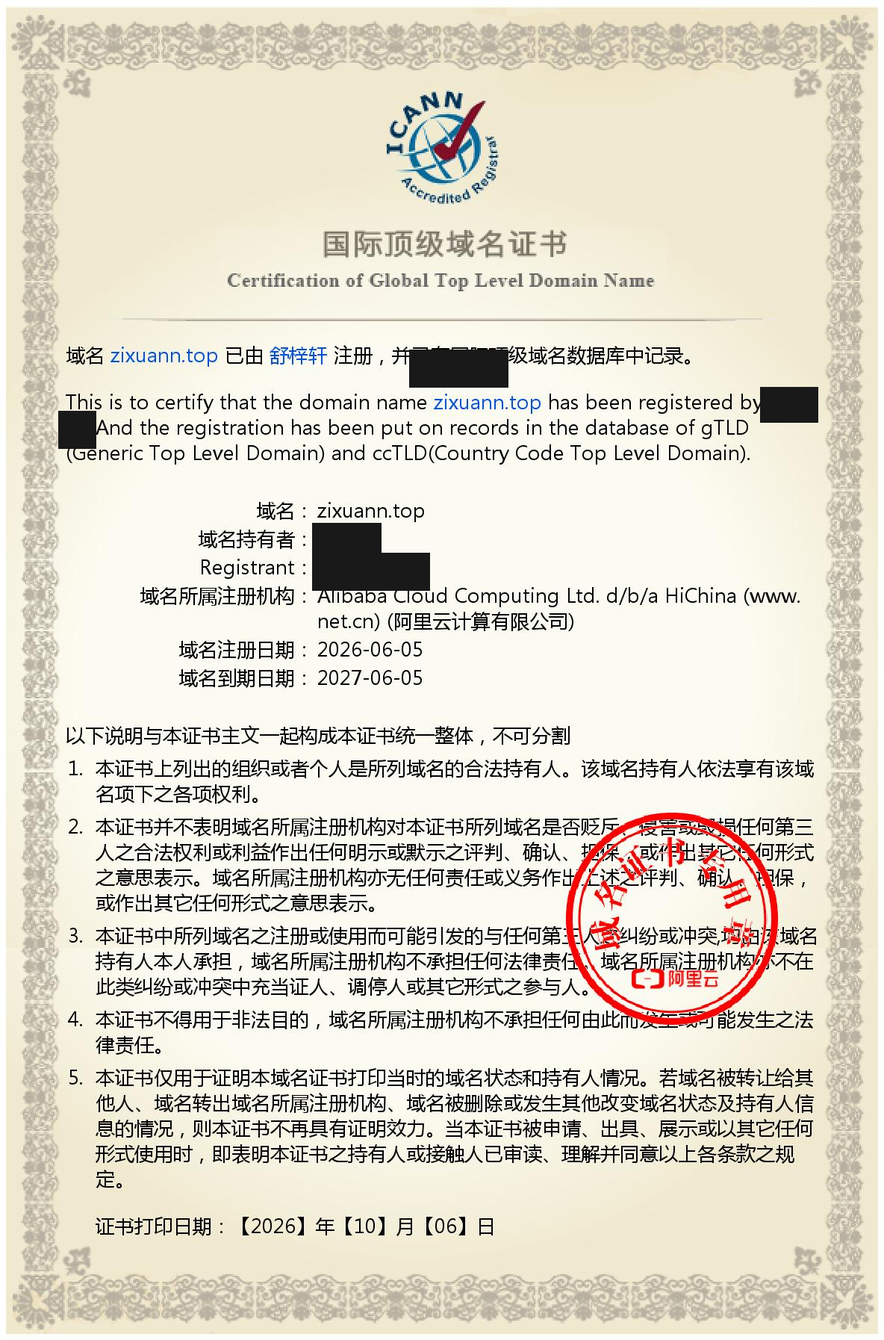
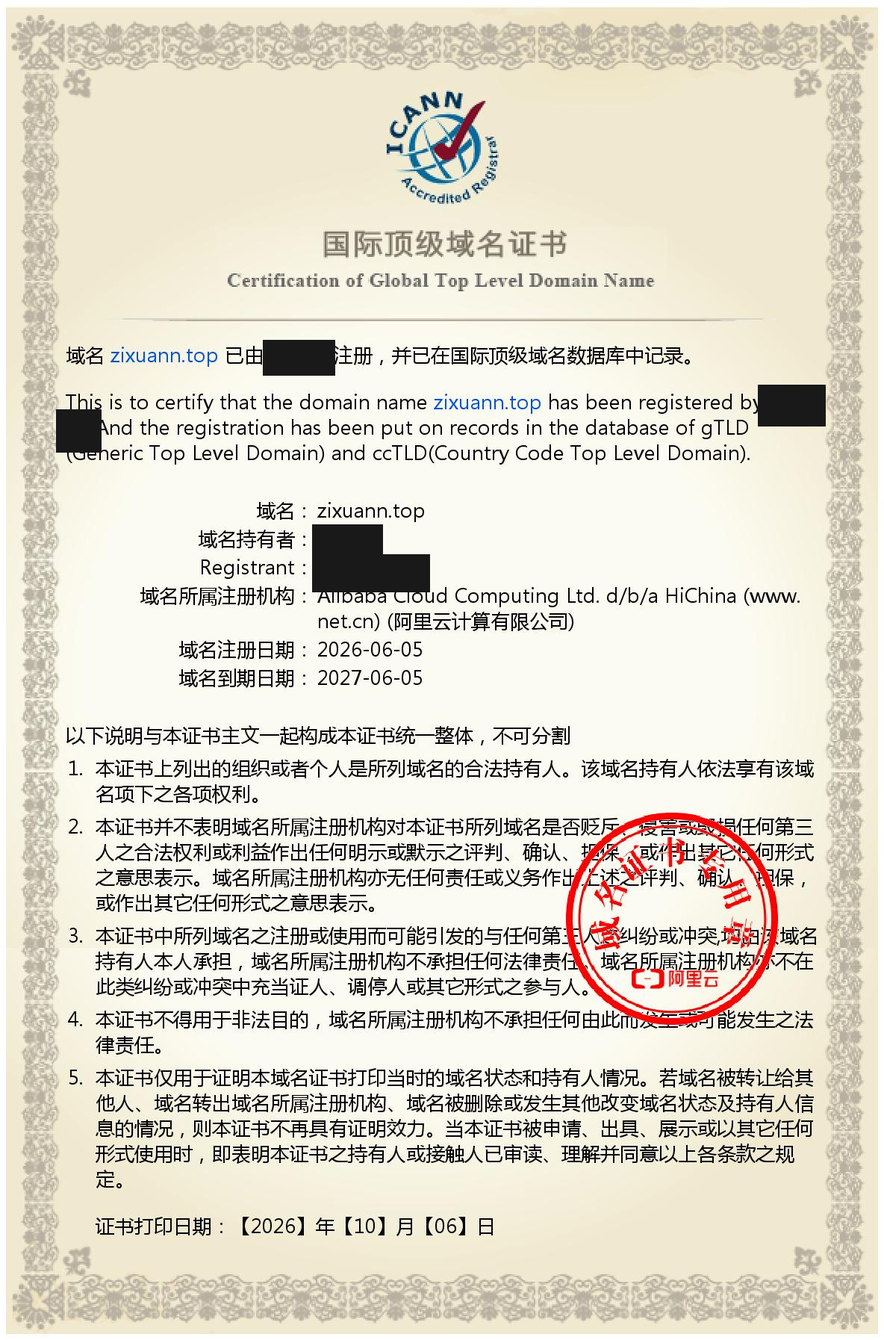
add domain certificate post with redacted image

diff --git a/dist/posts/2026-10-07-domain-cert.html b/dist/posts/2026-10-07-domain-cert.html
@@ -3,15 +3,15 @@
 <head>
 <meta charset="utf-8">
 <meta name="viewport" content="width=device-width, initial-scale=1">
-<title>归舸的大窝 · 归舸</title>
-<meta name="description" content="想开这个站挺久了。以前写的东西散在各处，干脆认真记一下——这里慢慢同步技术、生活，和一些还没想完的想法。">
+<title>这个窝，有证了 · 归舸</title>
+<meta name="description" content="域名证书打印出来了。zixuann.top，从 2026 年 6 月 5 日起，到 2027 年 6 月 5 日。">
 <meta name="author" content="归舸">
-<link rel="canonical" href="https://zixuann.top/归舸的大窝">
-<meta property="og:title" content="归舸的大窝 · 归舸">
-<meta property="og:description" content="想开这个站挺久了。以前写的东西散在各处，干脆认真记一下——这里慢慢同步技术、生活，和一些还没想完的想法。">
+<link rel="canonical" href="https://zixuann.top/这个窝，有证了">
+<meta property="og:title" content="这个窝，有证了 · 归舸">
+<meta property="og:description" content="域名证书打印出来了。zixuann.top，从 2026 年 6 月 5 日起，到 2027 年 6 月 5 日。">
 <meta property="og:type" content="website">
 <meta property="og:url" content="https://zixuann.top/">
-<meta property="og:image" content="../assets/valorant/cover-sage.jpg">
+<meta property="og:image" content="../assets/domain-cert.png">
 <meta name="twitter:card" content="summary_large_image">
 <link rel="alternate" type="application/rss+xml" title="归舸" href="../feed.xml">
 <link rel="icon" href="../assets/avatar.jpg" type="image/jpeg">
@@ -59,30 +59,31 @@
           <span class="badge">思考</span>
           
         </div>
-        <h1>归舸的大窝</h1>
+        <h1>这个窝，有证了</h1>
         <div class="post-meta">
-          <span>2026-10-06</span>
-          <span>18 分钟</span>
-          <span>374 字</span>
-          <span>阅读 <b id="stat-page-pv" data-key="2026-10-06-hello">…</b></span>
+          <span>2026-10-07</span>
+          <span>3 分钟</span>
+          <span>419 字</span>
+          <span>阅读 <b id="stat-page-pv" data-key="2026-10-07-domain-cert">…</b></span>
         </div>
       </header>
       <figure class="article-cover">
-        <img src="../assets/valorant/cover-sage.jpg" alt="归舸的大窝" loading="lazy">
+        <img src="../assets/domain-cert.png" alt="这个窝，有证了" loading="lazy">
       </figure>
       
-      <div class="article-body"><p>这是我博客的第一篇。</p>
-<p>其实想开这个站挺久了。以前写的东西散在各种地方——备忘录、聊天记录、某个草稿文件夹的角落里，过一阵自己都找不着。后来就想，干脆认真记一下吧，有个固定的地方，以后回看也方便。</p>
-<p>我这个人平时就是写写代码、打打无畏契约，偶尔脑子里会冒出一些有的没的。技术上踩了坑、折腾明白了什么，想记下来；生活里有意思的片段，也想留两句。不保证多深刻，但保证是自己真实想过的。</p>
-<p>所以这个站大概会有点杂：技术、生活、思考，可能还会开几个系列慢慢写。不追求日更，也不硬凑字数，有值得记的就写。长的分篇，短的就丢进碎片。</p>
-<p>如果你也是第一次来，随便逛逛就好。<a href="../about.html">关于我</a>和<a href="../projects.html">项目</a>里能多了解一点我是谁，也可以直接往下翻。文章底下有「回声」，想说什么都行。</p>
-<p>就先记一笔在这里。以后回看，应该会挺有意思的。</p></div>
+      <div class="article-body"><p>今天把 zixuann.top 的域名证书打印出来了。</p>
+<p>也不是什么特别隆重的事，就是一张纸：国际顶级域名证书，顶上有 ICANN 的标，下面写着域名、注册机构和一串日期。域名是 zixuann.top，注册走的阿里云，注册日期 2026-06-05，到期 2027-06-05。证书打印日期是 2026 年 10 月 6 日。</p>
+<p>说起来，这个域名其实六月初就拿下了。那时候站还没搭，先想着把名字占住。后来折腾界面、折腾部署、折腾评论，一天一天改到现在，才有空把证书打印出来看一眼。</p>
+<p>纸拿在手里的感觉还是有点怪。平时都在浏览器地址栏里敲 zixuann.top，看它跳转、看它 404、看它部署完突然能打开。现在它变成一张盖了章的纸，写着已经在国际顶级域名数据库里记录。像是这个小窝终于上户口了。</p>
+<p>有效期一年，到明年六月。中间还得记得续费，别让窝没了。</p>
+<p>证书里涉及个人信息的地方都打码了，图放下面。</p>
+<p><img loading="lazy" alt="zixuann.top 域名证书" src="assets/domain-cert.png"></p></div>
       <div class="article-foot">
-        <div class="post-tags"><a class="tag-chip" href="../tags.html#随笔">#随笔</a><a class="tag-chip" href="../tags.html#首页">#首页</a></div>
+        <div class="post-tags"><a class="tag-chip" href="../tags.html#随笔">#随笔</a><a class="tag-chip" href="../tags.html#域名">#域名</a></div>
         <p class="copyright">© 2026 归舸 · 转载请注明出处</p>
       </div>
     </div>
-    <section class="card pad"><h3 class="side-title">相关文章</h3><ul class="arch-list"><li><a href="2026-10-07-work-log.html">今日劳动小结：把博客从零拧到现在</a></li><li><a href="2026-10-07-domain-cert.html">这个窝，有证了</a></li></ul></section>
+    <section class="card pad"><h3 class="side-title">相关文章</h3><ul class="arch-list"><li><a href="2026-10-07-work-log.html">今日劳动小结：把博客从零拧到现在</a></li><li><a href="2026-10-06-hello.html">归舸的大窝</a></li></ul></section>
     
 <section class="echo">
   <h2 class="echo-title">回声</h2>

diff --git a/docs/posts/2026-10-07-domain-cert.html b/docs/posts/2026-10-07-domain-cert.html
@@ -3,15 +3,15 @@
 <head>
 <meta charset="utf-8">
 <meta name="viewport" content="width=device-width, initial-scale=1">
-<title>归舸的大窝 · 归舸</title>
-<meta name="description" content="想开这个站挺久了。以前写的东西散在各处，干脆认真记一下——这里慢慢同步技术、生活，和一些还没想完的想法。">
+<title>这个窝，有证了 · 归舸</title>
+<meta name="description" content="域名证书打印出来了。zixuann.top，从 2026 年 6 月 5 日起，到 2027 年 6 月 5 日。">
 <meta name="author" content="归舸">
-<link rel="canonical" href="https://zixuann.top/归舸的大窝">
-<meta property="og:title" content="归舸的大窝 · 归舸">
-<meta property="og:description" content="想开这个站挺久了。以前写的东西散在各处，干脆认真记一下——这里慢慢同步技术、生活，和一些还没想完的想法。">
+<link rel="canonical" href="https://zixuann.top/这个窝，有证了">
+<meta property="og:title" content="这个窝，有证了 · 归舸">
+<meta property="og:description" content="域名证书打印出来了。zixuann.top，从 2026 年 6 月 5 日起，到 2027 年 6 月 5 日。">
 <meta property="og:type" content="website">
 <meta property="og:url" content="https://zixuann.top/">
-<meta property="og:image" content="../assets/valorant/cover-sage.jpg">
+<meta property="og:image" content="../assets/domain-cert.png">
 <meta name="twitter:card" content="summary_large_image">
 <link rel="alternate" type="application/rss+xml" title="归舸" href="../feed.xml">
 <link rel="icon" href="../assets/avatar.jpg" type="image/jpeg">
@@ -59,30 +59,31 @@
           <span class="badge">思考</span>
           
         </div>
-        <h1>归舸的大窝</h1>
+        <h1>这个窝，有证了</h1>
         <div class="post-meta">
-          <span>2026-10-06</span>
-          <span>18 分钟</span>
-          <span>374 字</span>
-          <span>阅读 <b id="stat-page-pv" data-key="2026-10-06-hello">…</b></span>
+          <span>2026-10-07</span>
+          <span>3 分钟</span>
+          <span>419 字</span>
+          <span>阅读 <b id="stat-page-pv" data-key="2026-10-07-domain-cert">…</b></span>
         </div>
       </header>
       <figure class="article-cover">
-        <img src="../assets/valorant/cover-sage.jpg" alt="归舸的大窝" loading="lazy">
+        <img src="../assets/domain-cert.png" alt="这个窝，有证了" loading="lazy">
       </figure>
       
-      <div class="article-body"><p>这是我博客的第一篇。</p>
-<p>其实想开这个站挺久了。以前写的东西散在各种地方——备忘录、聊天记录、某个草稿文件夹的角落里，过一阵自己都找不着。后来就想，干脆认真记一下吧，有个固定的地方，以后回看也方便。</p>
-<p>我这个人平时就是写写代码、打打无畏契约，偶尔脑子里会冒出一些有的没的。技术上踩了坑、折腾明白了什么，想记下来；生活里有意思的片段，也想留两句。不保证多深刻，但保证是自己真实想过的。</p>
-<p>所以这个站大概会有点杂：技术、生活、思考，可能还会开几个系列慢慢写。不追求日更，也不硬凑字数，有值得记的就写。长的分篇，短的就丢进碎片。</p>
-<p>如果你也是第一次来，随便逛逛就好。<a href="../about.html">关于我</a>和<a href="../projects.html">项目</a>里能多了解一点我是谁，也可以直接往下翻。文章底下有「回声」，想说什么都行。</p>
-<p>就先记一笔在这里。以后回看，应该会挺有意思的。</p></div>
+      <div class="article-body"><p>今天把 zixuann.top 的域名证书打印出来了。</p>
+<p>也不是什么特别隆重的事，就是一张纸：国际顶级域名证书，顶上有 ICANN 的标，下面写着域名、注册机构和一串日期。域名是 zixuann.top，注册走的阿里云，注册日期 2026-06-05，到期 2027-06-05。证书打印日期是 2026 年 10 月 6 日。</p>
+<p>说起来，这个域名其实六月初就拿下了。那时候站还没搭，先想着把名字占住。后来折腾界面、折腾部署、折腾评论，一天一天改到现在，才有空把证书打印出来看一眼。</p>
+<p>纸拿在手里的感觉还是有点怪。平时都在浏览器地址栏里敲 zixuann.top，看它跳转、看它 404、看它部署完突然能打开。现在它变成一张盖了章的纸，写着已经在国际顶级域名数据库里记录。像是这个小窝终于上户口了。</p>
+<p>有效期一年，到明年六月。中间还得记得续费，别让窝没了。</p>
+<p>证书里涉及个人信息的地方都打码了，图放下面。</p>
+<p><img loading="lazy" alt="zixuann.top 域名证书" src="assets/domain-cert.png"></p></div>
       <div class="article-foot">
-        <div class="post-tags"><a class="tag-chip" href="../tags.html#随笔">#随笔</a><a class="tag-chip" href="../tags.html#首页">#首页</a></div>
+        <div class="post-tags"><a class="tag-chip" href="../tags.html#随笔">#随笔</a><a class="tag-chip" href="../tags.html#域名">#域名</a></div>
         <p class="copyright">© 2026 归舸 · 转载请注明出处</p>
       </div>
     </div>
-    <section class="card pad"><h3 class="side-title">相关文章</h3><ul class="arch-list"><li><a href="2026-10-07-work-log.html">今日劳动小结：把博客从零拧到现在</a></li><li><a href="2026-10-07-domain-cert.html">这个窝，有证了</a></li></ul></section>
+    <section class="card pad"><h3 class="side-title">相关文章</h3><ul class="arch-list"><li><a href="2026-10-07-work-log.html">今日劳动小结：把博客从零拧到现在</a></li><li><a href="2026-10-06-hello.html">归舸的大窝</a></li></ul></section>
     
 <section class="echo">
   <h2 class="echo-title">回声</h2>

diff --git a/dist/index.html b/dist/index.html
@@ -48,7 +48,7 @@
     <p class="hero-sub">打瓦、想东想西——慢慢记下来</p>
     <div class="hero-stats">
       <span>访问 <b id="stat-site-pv-hero">…</b></span>
-      <span>文章 <b>2</b></span>
+      <span>文章 <b>3</b></span>
       <span>自 2026-10-06</span>
     </div>
   </div>
@@ -69,7 +69,7 @@
     <a href="projects.html">项目</a>
     <a href="feed.xml">RSS</a>
   </div>
-</section><div class="stack"><section class="card"><h3 class="side-title">分类</h3><div class="tagbar"><a class="tag-chip" href="categories.html#思考">思考<b>2</b></a></div></section></div></aside>
+</section><div class="stack"><section class="card"><h3 class="side-title">分类</h3><div class="tagbar"><a class="tag-chip" href="categories.html#思考">思考<b>3</b></a></div></section></div></aside>
   <section class="main-col" id="posts">
     <h2 class="section-title">精选</h2><article class="card post-card">
   <div>
@@ -92,6 +92,22 @@
     <article class="card post-card">
   <div>
     <div class="badges"></div>
+    <h2 class="post-title"><a href="posts/2026-10-07-domain-cert.html">这个窝，有证了</a></h2>
+    <div class="post-meta">
+      <span>2026-10-07</span>
+      <span>思考</span>
+      <span>3 分钟</span>
+      <span>419 字</span>
+    </div>
+    <p class="post-summary">域名证书打印出来了。zixuann.top，从 2026 年 6 月 5 日起，到 2027 年 6 月 5 日。</p>
+    <div class="post-tags"><span>#随笔</span><span>#域名</span></div>
+  </div>
+  <a class="post-cover" href="posts/2026-10-07-domain-cert.html">
+    <img src="assets/domain-cert.png" alt="" loading="lazy">
+  </a>
+</article><article class="card post-card">
+  <div>
+    <div class="badges"></div>
     <h2 class="post-title"><a href="posts/2026-10-06-hello.html">归舸的大窝</a></h2>
     <div class="post-meta">
       <span>2026-10-06</span>
@@ -110,10 +126,10 @@
   <aside class="side-col">
     <section class="card">
   <h3 class="side-title">站点统计</h3>
-  <div class="stat-row"><span>文章</span><b>2</b></div><div class="stat-row"><span>分类</span><b>1</b></div><div class="stat-row"><span>标签</span><b>3</b></div><div class="stat-row"><span>总字数</span><b>1695</b></div><div class="stat-row"><span>运行天数</span><b>2 天</b></div><div class="stat-row"><span>最后活动</span><b>2026-10-07</b></div>
+  <div class="stat-row"><span>文章</span><b>3</b></div><div class="stat-row"><span>分类</span><b>1</b></div><div class="stat-row"><span>标签</span><b>4</b></div><div class="stat-row"><span>总字数</span><b>2114</b></div><div class="stat-row"><span>运行天数</span><b>2 天</b></div><div class="stat-row"><span>最后活动</span><b>2026-10-07</b></div>
   <div class="side-note">访问统计由 Abacus 提供，刷新页面数字会跳。</div>
 </section>
-    <section class="card"><h3 class="side-title">标签</h3><div class="tagbar"><a class="tag-chip" href="tags.html#随笔">#随笔<b>2</b></a><a class="tag-chip" href="tags.html#劳动小结">#劳动小结<b>1</b></a><a class="tag-chip" href="tags.html#首页">#首页<b>1</b></a></div></section>
+    <section class="card"><h3 class="side-title">标签</h3><div class="tagbar"><a class="tag-chip" href="tags.html#随笔">#随笔<b>3</b></a><a class="tag-chip" href="tags.html#劳动小结">#劳动小结<b>1</b></a><a class="tag-chip" href="tags.html#域名">#域名<b>1</b></a><a class="tag-chip" href="tags.html#首页">#首页<b>1</b></a></div></section>
   </aside>
 </div>
 <footer class="site-footer">

diff --git a/docs/index.html b/docs/index.html
@@ -48,7 +48,7 @@
     <p class="hero-sub">打瓦、想东想西——慢慢记下来</p>
     <div class="hero-stats">
       <span>访问 <b id="stat-site-pv-hero">…</b></span>
-      <span>文章 <b>2</b></span>
+      <span>文章 <b>3</b></span>
       <span>自 2026-10-06</span>
     </div>
   </div>
@@ -69,7 +69,7 @@
     <a href="projects.html">项目</a>
     <a href="feed.xml">RSS</a>
   </div>
-</section><div class="stack"><section class="card"><h3 class="side-title">分类</h3><div class="tagbar"><a class="tag-chip" href="categories.html#思考">思考<b>2</b></a></div></section></div></aside>
+</section><div class="stack"><section class="card"><h3 class="side-title">分类</h3><div class="tagbar"><a class="tag-chip" href="categories.html#思考">思考<b>3</b></a></div></section></div></aside>
   <section class="main-col" id="posts">
     <h2 class="section-title">精选</h2><article class="card post-card">
   <div>
@@ -92,6 +92,22 @@
     <article class="card post-card">
   <div>
     <div class="badges"></div>
+    <h2 class="post-title"><a href="posts/2026-10-07-domain-cert.html">这个窝，有证了</a></h2>
+    <div class="post-meta">
+      <span>2026-10-07</span>
+      <span>思考</span>
+      <span>3 分钟</span>
+      <span>419 字</span>
+    </div>
+    <p class="post-summary">域名证书打印出来了。zixuann.top，从 2026 年 6 月 5 日起，到 2027 年 6 月 5 日。</p>
+    <div class="post-tags"><span>#随笔</span><span>#域名</span></div>
+  </div>
+  <a class="post-cover" href="posts/2026-10-07-domain-cert.html">
+    <img src="assets/domain-cert.png" alt="" loading="lazy">
+  </a>
+</article><article class="card post-card">
+  <div>
+    <div class="badges"></div>
     <h2 class="post-title"><a href="posts/2026-10-06-hello.html">归舸的大窝</a></h2>
     <div class="post-meta">
       <span>2026-10-06</span>
@@ -110,10 +126,10 @@
   <aside class="side-col">
     <section class="card">
   <h3 class="side-title">站点统计</h3>
-  <div class="stat-row"><span>文章</span><b>2</b></div><div class="stat-row"><span>分类</span><b>1</b></div><div class="stat-row"><span>标签</span><b>3</b></div><div class="stat-row"><span>总字数</span><b>1695</b></div><div class="stat-row"><span>运行天数</span><b>2 天</b></div><div class="stat-row"><span>最后活动</span><b>2026-10-07</b></div>
+  <div class="stat-row"><span>文章</span><b>3</b></div><div class="stat-row"><span>分类</span><b>1</b></div><div class="stat-row"><span>标签</span><b>4</b></div><div class="stat-row"><span>总字数</span><b>2114</b></div><div class="stat-row"><span>运行天数</span><b>2 天</b></div><div class="stat-row"><span>最后活动</span><b>2026-10-07</b></div>
   <div class="side-note">访问统计由 Abacus 提供，刷新页面数字会跳。</div>
 </section>
-    <section class="card"><h3 class="side-title">标签</h3><div class="tagbar"><a class="tag-chip" href="tags.html#随笔">#随笔<b>2</b></a><a class="tag-chip" href="tags.html#劳动小结">#劳动小结<b>1</b></a><a class="tag-chip" href="tags.html#首页">#首页<b>1</b></a></div></section>
+    <section class="card"><h3 class="side-title">标签</h3><div class="tagbar"><a class="tag-chip" href="tags.html#随笔">#随笔<b>3</b></a><a class="tag-chip" href="tags.html#劳动小结">#劳动小结<b>1</b></a><a class="tag-chip" href="tags.html#域名">#域名<b>1</b></a><a class="tag-chip" href="tags.html#首页">#首页<b>1</b></a></div></section>
   </aside>
 </div>
 <footer class="site-footer">

diff --git a/dist/tags.html b/dist/tags.html
@@ -40,7 +40,7 @@
 </header>
 <div class="mobile-nav" id="mobile-nav"><a href="index.html">主页</a><a href="archive.html">归档</a><a href="categories.html">分类</a><a href="tags.html" class="active">标签</a><a href="projects.html">项目</a><a href="about.html">关于</a></div>
 
-<div class="page single"><div class="tagbar"><a class="tag-chip" href="#随笔">#随笔<b>2</b></a><a class="tag-chip" href="#劳动小结">#劳动小结<b>1</b></a><a class="tag-chip" href="#首页">#首页<b>1</b></a></div><h2 class="section-title" id="随笔">#随笔</h2><ul class="arch-list"><li><span>2026-10-07</span><a href="posts/2026-10-07-work-log.html">今日劳动小结：把博客从零拧到现在</a></li><li><span>2026-10-06</span><a href="posts/2026-10-06-hello.html">归舸的大窝</a></li></ul><h2 class="section-title" id="劳动小结">#劳动小结</h2><ul class="arch-list"><li><span>2026-10-07</span><a href="posts/2026-10-07-work-log.html">今日劳动小结：把博客从零拧到现在</a></li></ul><h2 class="section-title" id="首页">#首页</h2><ul class="arch-list"><li><span>2026-10-06</span><a href="posts/2026-10-06-hello.html">归舸的大窝</a></li></ul></div>
+<div class="page single"><div class="tagbar"><a class="tag-chip" href="#随笔">#随笔<b>3</b></a><a class="tag-chip" href="#劳动小结">#劳动小结<b>1</b></a><a class="tag-chip" href="#域名">#域名<b>1</b></a><a class="tag-chip" href="#首页">#首页<b>1</b></a></div><h2 class="section-title" id="随笔">#随笔</h2><ul class="arch-list"><li><span>2026-10-07</span><a href="posts/2026-10-07-work-log.html">今日劳动小结：把博客从零拧到现在</a></li><li><span>2026-10-07</span><a href="posts/2026-10-07-domain-cert.html">这个窝，有证了</a></li><li><span>2026-10-06</span><a href="posts/2026-10-06-hello.html">归舸的大窝</a></li></ul><h2 class="section-title" id="劳动小结">#劳动小结</h2><ul class="arch-list"><li><span>2026-10-07</span><a href="posts/2026-10-07-work-log.html">今日劳动小结：把博客从零拧到现在</a></li></ul><h2 class="section-title" id="域名">#域名</h2><ul class="arch-list"><li><span>2026-10-07</span><a href="posts/2026-10-07-domain-cert.html">这个窝，有证了</a></li></ul><h2 class="section-title" id="首页">#首页</h2><ul class="arch-list"><li><span>2026-10-06</span><a href="posts/2026-10-06-hello.html">归舸的大窝</a></li></ul></div>
 <footer class="site-footer">
   <div>© 2026 归舸 · 归舸的大窝</div>
   <div class="footer-meta">

diff --git a/docs/tags.html b/docs/tags.html
@@ -40,7 +40,7 @@
 </header>
 <div class="mobile-nav" id="mobile-nav"><a href="index.html">主页</a><a href="archive.html">归档</a><a href="categories.html">分类</a><a href="tags.html" class="active">标签</a><a href="projects.html">项目</a><a href="about.html">关于</a></div>
 
-<div class="page single"><div class="tagbar"><a class="tag-chip" href="#随笔">#随笔<b>2</b></a><a class="tag-chip" href="#劳动小结">#劳动小结<b>1</b></a><a class="tag-chip" href="#首页">#首页<b>1</b></a></div><h2 class="section-title" id="随笔">#随笔</h2><ul class="arch-list"><li><span>2026-10-07</span><a href="posts/2026-10-07-work-log.html">今日劳动小结：把博客从零拧到现在</a></li><li><span>2026-10-06</span><a href="posts/2026-10-06-hello.html">归舸的大窝</a></li></ul><h2 class="section-title" id="劳动小结">#劳动小结</h2><ul class="arch-list"><li><span>2026-10-07</span><a href="posts/2026-10-07-work-log.html">今日劳动小结：把博客从零拧到现在</a></li></ul><h2 class="section-title" id="首页">#首页</h2><ul class="arch-list"><li><span>2026-10-06</span><a href="posts/2026-10-06-hello.html">归舸的大窝</a></li></ul></div>
+<div class="page single"><div class="tagbar"><a class="tag-chip" href="#随笔">#随笔<b>3</b></a><a class="tag-chip" href="#劳动小结">#劳动小结<b>1</b></a><a class="tag-chip" href="#域名">#域名<b>1</b></a><a class="tag-chip" href="#首页">#首页<b>1</b></a></div><h2 class="section-title" id="随笔">#随笔</h2><ul class="arch-list"><li><span>2026-10-07</span><a href="posts/2026-10-07-work-log.html">今日劳动小结：把博客从零拧到现在</a></li><li><span>2026-10-07</span><a href="posts/2026-10-07-domain-cert.html">这个窝，有证了</a></li><li><span>2026-10-06</span><a href="posts/2026-10-06-hello.html">归舸的大窝</a></li></ul><h2 class="section-title" id="劳动小结">#劳动小结</h2><ul class="arch-list"><li><span>2026-10-07</span><a href="posts/2026-10-07-work-log.html">今日劳动小结：把博客从零拧到现在</a></li></ul><h2 class="section-title" id="域名">#域名</h2><ul class="arch-list"><li><span>2026-10-07</span><a href="posts/2026-10-07-domain-cert.html">这个窝，有证了</a></li></ul><h2 class="section-title" id="首页">#首页</h2><ul class="arch-list"><li><span>2026-10-06</span><a href="posts/2026-10-06-hello.html">归舸的大窝</a></li></ul></div>
 <footer class="site-footer">
   <div>© 2026 归舸 · 归舸的大窝</div>
   <div class="footer-meta">

diff --git a/dist/categories.html b/dist/categories.html
@@ -40,7 +40,7 @@
 </header>
 <div class="mobile-nav" id="mobile-nav"><a href="index.html">主页</a><a href="archive.html">归档</a><a href="categories.html" class="active">分类</a><a href="tags.html">标签</a><a href="projects.html">项目</a><a href="about.html">关于</a></div>
 
-<div class="page single"><h2 class="section-title" id="思考">思考 <small>2</small></h2><ul class="arch-list"><li><span>2026-10-07</span><a href="posts/2026-10-07-work-log.html">今日劳动小结：把博客从零拧到现在</a></li><li><span>2026-10-06</span><a href="posts/2026-10-06-hello.html">归舸的大窝</a></li></ul></div>
+<div class="page single"><h2 class="section-title" id="思考">思考 <small>3</small></h2><ul class="arch-list"><li><span>2026-10-07</span><a href="posts/2026-10-07-work-log.html">今日劳动小结：把博客从零拧到现在</a></li><li><span>2026-10-07</span><a href="posts/2026-10-07-domain-cert.html">这个窝，有证了</a></li><li><span>2026-10-06</span><a href="posts/2026-10-06-hello.html">归舸的大窝</a></li></ul></div>
 <footer class="site-footer">
   <div>© 2026 归舸 · 归舸的大窝</div>
   <div class="footer-meta">

diff --git a/docs/categories.html b/docs/categories.html
@@ -40,7 +40,7 @@
 </header>
 <div class="mobile-nav" id="mobile-nav"><a href="index.html">主页</a><a href="archive.html">归档</a><a href="categories.html" class="active">分类</a><a href="tags.html">标签</a><a href="projects.html">项目</a><a href="about.html">关于</a></div>
 
-<div class="page single"><h2 class="section-title" id="思考">思考 <small>2</small></h2><ul class="arch-list"><li><span>2026-10-07</span><a href="posts/2026-10-07-work-log.html">今日劳动小结：把博客从零拧到现在</a></li><li><span>2026-10-06</span><a href="posts/2026-10-06-hello.html">归舸的大窝</a></li></ul></div>
+<div class="page single"><h2 class="section-title" id="思考">思考 <small>3</small></h2><ul class="arch-list"><li><span>2026-10-07</span><a href="posts/2026-10-07-work-log.html">今日劳动小结：把博客从零拧到现在</a></li><li><span>2026-10-07</span><a href="posts/2026-10-07-domain-cert.html">这个窝，有证了</a></li><li><span>2026-10-06</span><a href="posts/2026-10-06-hello.html">归舸的大窝</a></li></ul></div>
 <footer class="site-footer">
   <div>© 2026 归舸 · 归舸的大窝</div>
   <div class="footer-meta">

diff --git a/dist/archive.html b/dist/archive.html
@@ -40,7 +40,7 @@
 </header>
 <div class="mobile-nav" id="mobile-nav"><a href="index.html">主页</a><a href="archive.html" class="active">归档</a><a href="categories.html">分类</a><a href="tags.html">标签</a><a href="projects.html">项目</a><a href="about.html">关于</a></div>
 
-<div class="page single"><h2 class="section-title">2026</h2><ul class="arch-list"><li><span>2026-10-07</span><a href="posts/2026-10-07-work-log.html">今日劳动小结：把博客从零拧到现在</a></li><li><span>2026-10-06</span><a href="posts/2026-10-06-hello.html">归舸的大窝</a></li></ul></div>
+<div class="page single"><h2 class="section-title">2026</h2><ul class="arch-list"><li><span>2026-10-07</span><a href="posts/2026-10-07-work-log.html">今日劳动小结：把博客从零拧到现在</a></li><li><span>2026-10-07</span><a href="posts/2026-10-07-domain-cert.html">这个窝，有证了</a></li><li><span>2026-10-06</span><a href="posts/2026-10-06-hello.html">归舸的大窝</a></li></ul></div>
 <footer class="site-footer">
   <div>© 2026 归舸 · 归舸的大窝</div>
   <div class="footer-meta">

diff --git a/docs/archive.html b/docs/archive.html
@@ -40,7 +40,7 @@
 </header>
 <div class="mobile-nav" id="mobile-nav"><a href="index.html">主页</a><a href="archive.html" class="active">归档</a><a href="categories.html">分类</a><a href="tags.html">标签</a><a href="projects.html">项目</a><a href="about.html">关于</a></div>
 
-<div class="page single"><h2 class="section-title">2026</h2><ul class="arch-list"><li><span>2026-10-07</span><a href="posts/2026-10-07-work-log.html">今日劳动小结：把博客从零拧到现在</a></li><li><span>2026-10-06</span><a href="posts/2026-10-06-hello.html">归舸的大窝</a></li></ul></div>
+<div class="page single"><h2 class="section-title">2026</h2><ul class="arch-list"><li><span>2026-10-07</span><a href="posts/2026-10-07-work-log.html">今日劳动小结：把博客从零拧到现在</a></li><li><span>2026-10-07</span><a href="posts/2026-10-07-domain-cert.html">这个窝，有证了</a></li><li><span>2026-10-06</span><a href="posts/2026-10-06-hello.html">归舸的大窝</a></li></ul></div>
 <footer class="site-footer">
   <div>© 2026 归舸 · 归舸的大窝</div>
   <div class="footer-meta">

diff --git a/docs/posts/2026-10-06-hello.html b/docs/posts/2026-10-06-hello.html
@@ -82,7 +82,7 @@
         <p class="copyright">© 2026 归舸 · 转载请注明出处</p>
       </div>
     </div>
-    <section class="card pad"><h3 class="side-title">相关文章</h3><ul class="arch-list"><li><a href="2026-10-07-work-log.html">今日劳动小结：把博客从零拧到现在</a></li></ul></section>
+    <section class="card pad"><h3 class="side-title">相关文章</h3><ul class="arch-list"><li><a href="2026-10-07-work-log.html">今日劳动小结：把博客从零拧到现在</a></li><li><a href="2026-10-07-domain-cert.html">这个窝，有证了</a></li></ul></section>
     
 <section class="echo">
   <h2 class="echo-title">回声</h2>

diff --git a/dist/posts/2026-10-07-work-log.html b/dist/posts/2026-10-07-work-log.html
@@ -97,7 +97,7 @@
         <p class="copyright">© 2026 归舸 · 转载请注明出处</p>
       </div>
     </div>
-    <section class="card pad"><h3 class="side-title">相关文章</h3><ul class="arch-list"><li><a href="2026-10-06-hello.html">归舸的大窝</a></li></ul></section>
+    <section class="card pad"><h3 class="side-title">相关文章</h3><ul class="arch-list"><li><a href="2026-10-07-domain-cert.html">这个窝，有证了</a></li><li><a href="2026-10-06-hello.html">归舸的大窝</a></li></ul></section>
     
 <section class="echo">
   <h2 class="echo-title">回声</h2>
